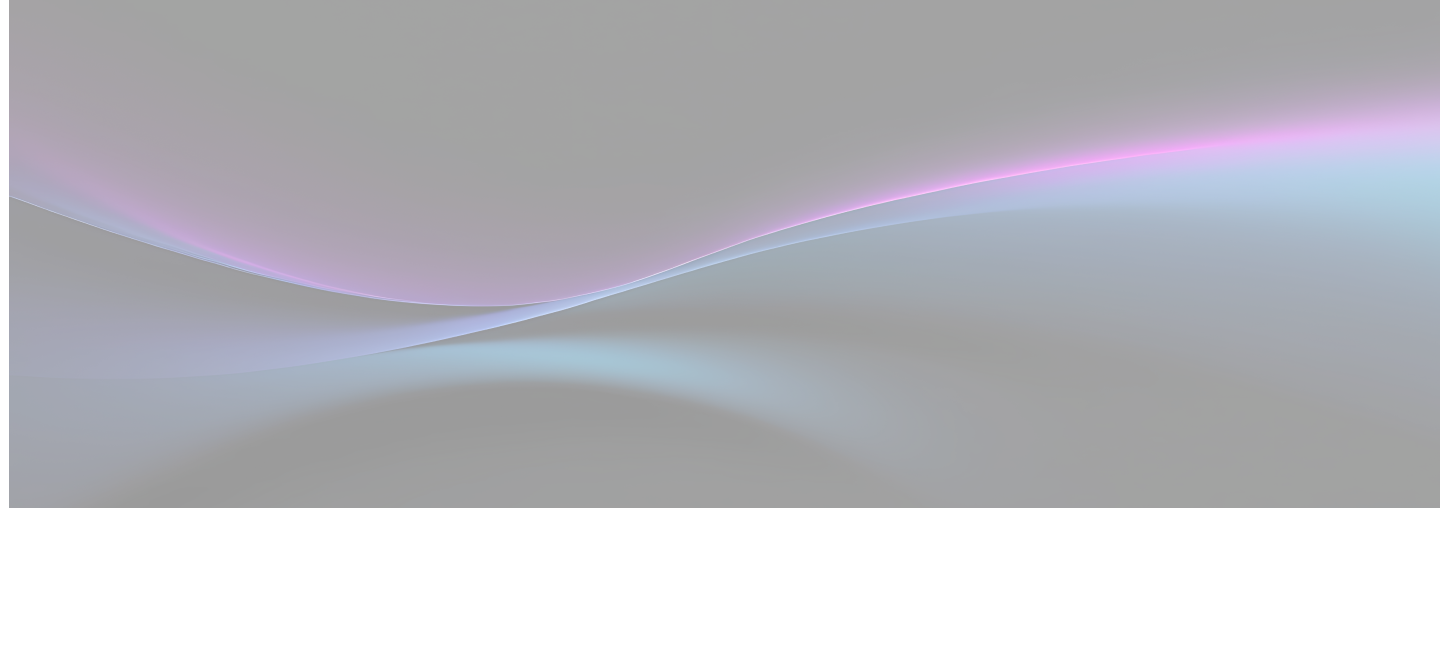
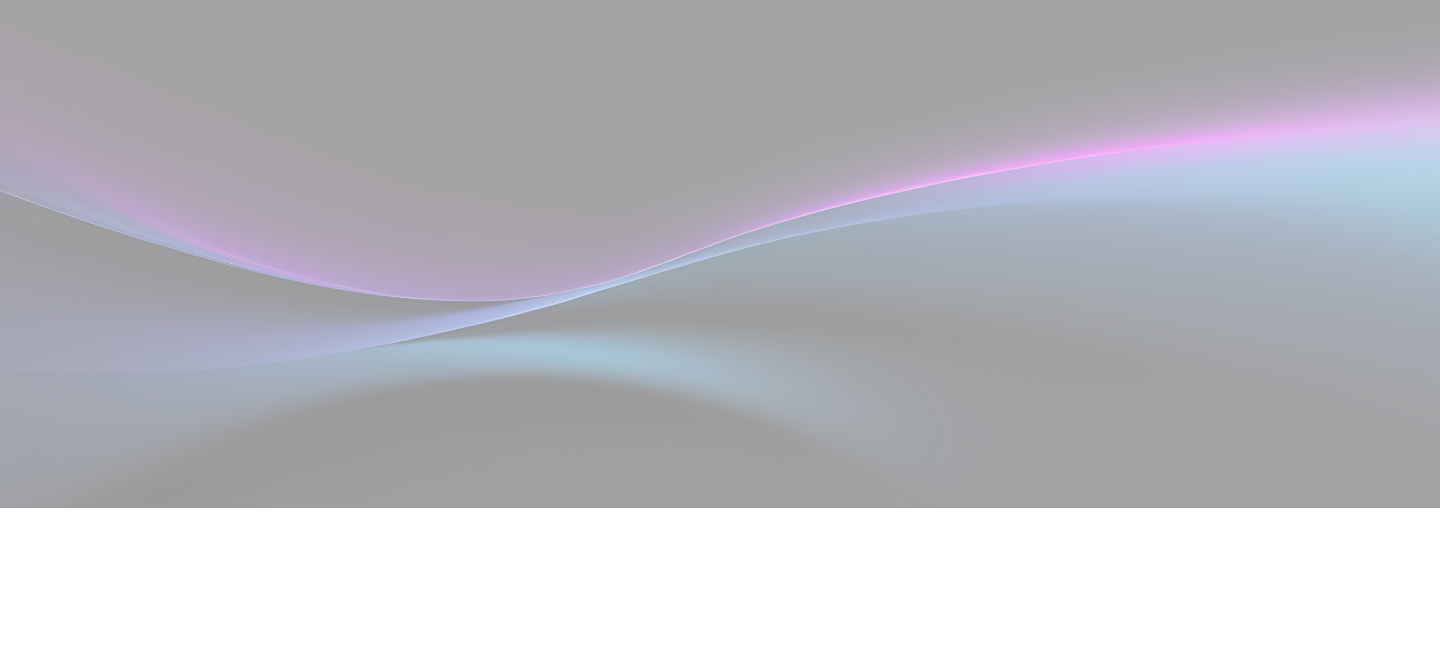
[Add] help center and term of use.

diff --git a/app/app/[locale]/(public)/campaigns/page.tsx b/app/app/[locale]/(public)/campaigns/page.tsx
@@ -56,7 +56,7 @@ export default async function CampaignPage({ searchParams }: Props) {
   const categories = [
     {value:'', label: t('campaign.all_category')},
     {value:'new_user', label: t('campaign.category_new_user')},
-    {value:'trading_competition ', label: t('campaign.category_trading_competition')},
+    // {value:'trading_competition ', label: t('campaign.category_trading_competition')},
   ]
   const statuses = [
     {value:'', label: t('campaign.all_campaign_status')},

diff --git a/app/styles/public/styles.scss b/app/styles/public/styles.scss
@@ -149,7 +149,7 @@ header {
   background-repeat: no-repeat;
 }
 .page-img-bg {
-  background-image: url("../../public/images/page-bg2.png");
+  background-image: url("../../public/images/bg-source-hero.png");
   background-size: cover;
   background-repeat: no-repeat;
 }
